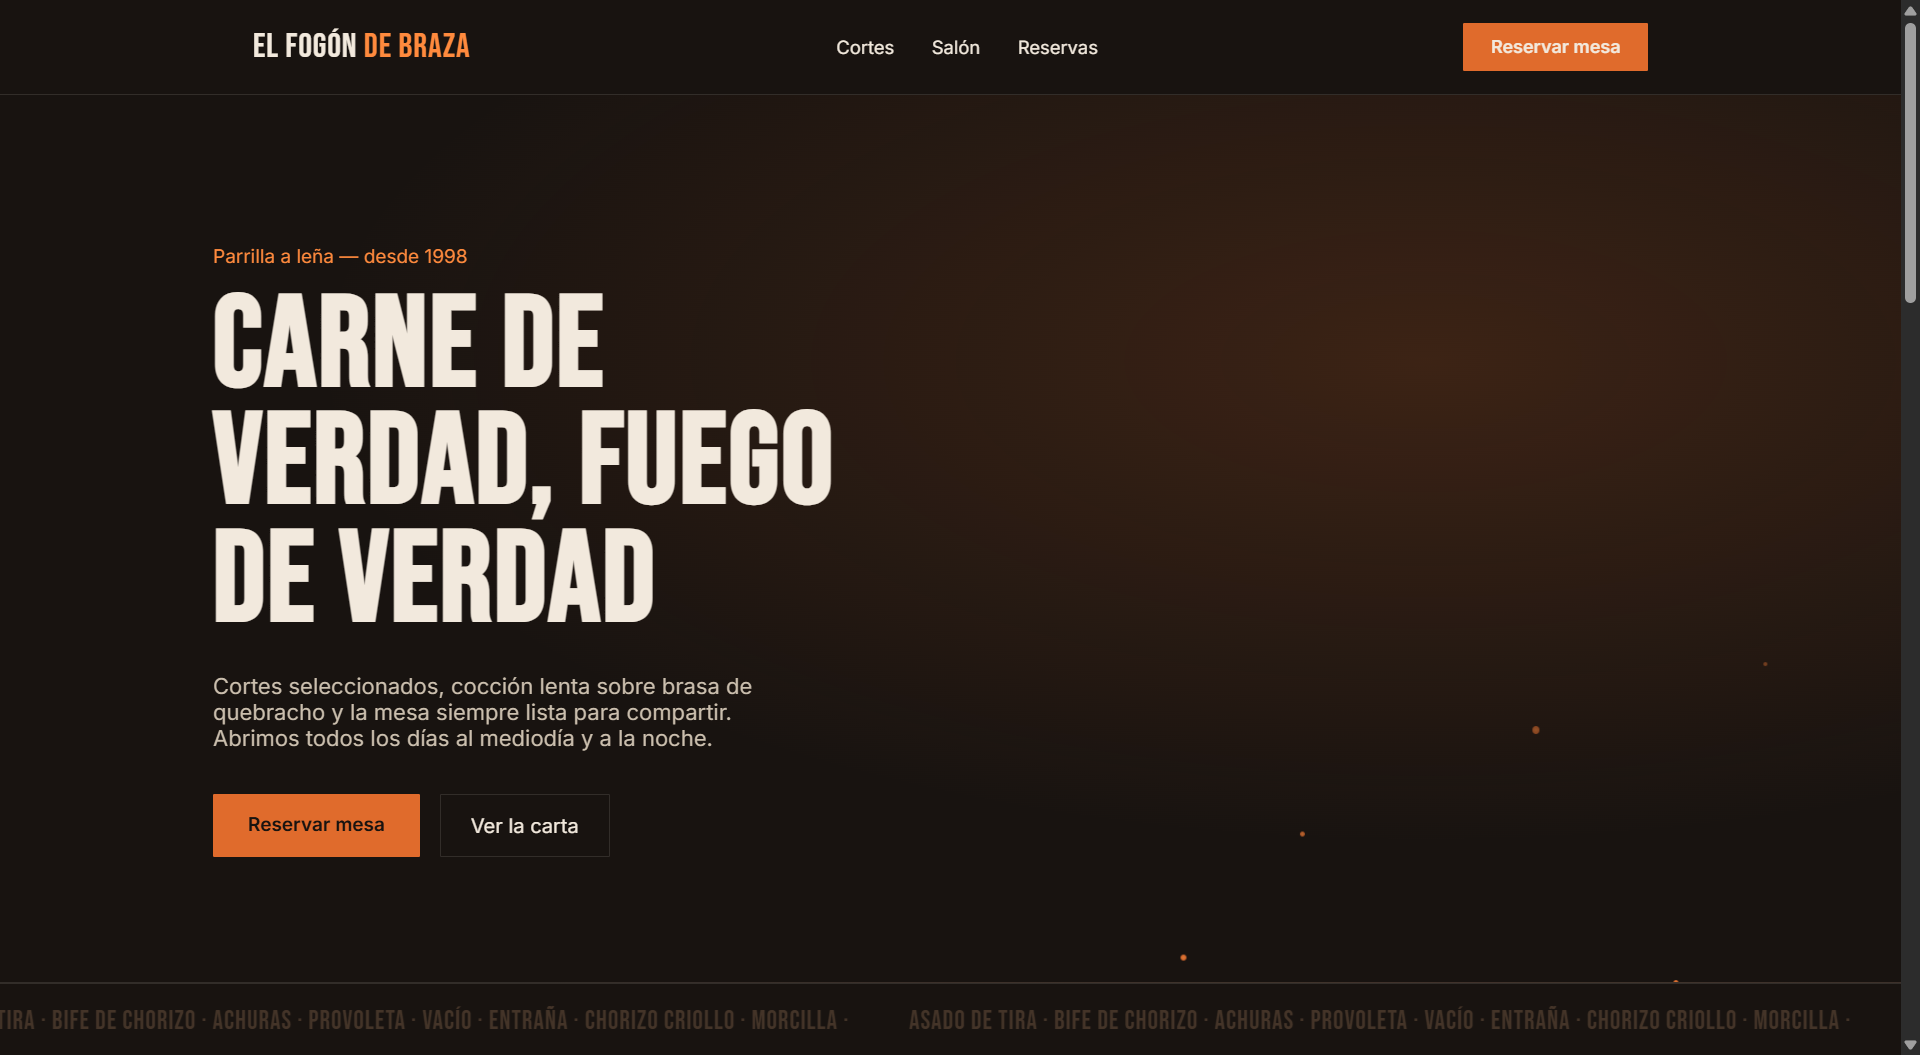
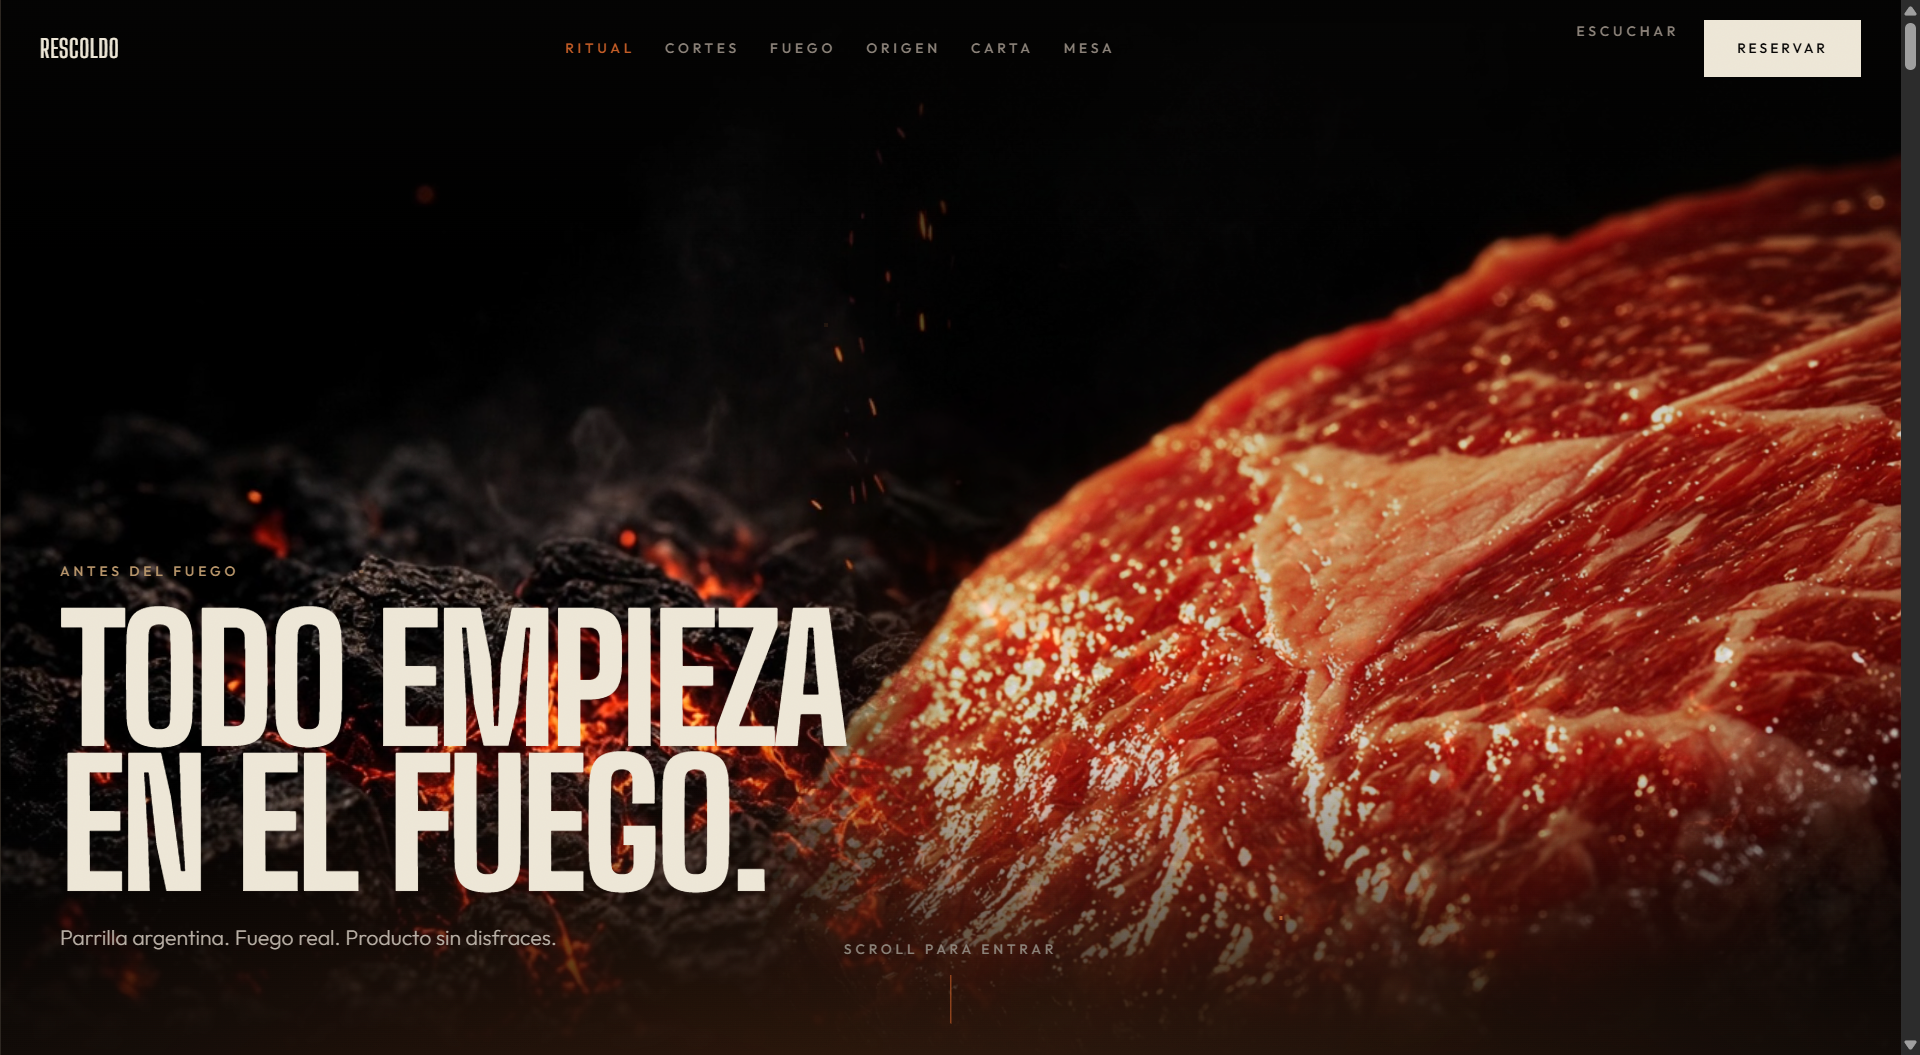
fix demo parrilla

diff --git a/src/data.js b/src/data.js
@@ -97,15 +97,9 @@ export const templates = [
         name: "Parrilla",
         category: "Gastronomía · Landing page",
         image: "/templates/parrilla/parrilla.png",
-        link: "/templates/parrilla/parrilla.html"
+        link: "https://demo-parrilla.vercel.app/"
     },
-  //  {
-        //index: "07",
-        //name: "Empanadas",
-        //category: "Gastronomía · Website",
-        //image: "/templates/empas/empas.png",
-        //link: "https://demo-empas.vercel.app/"
-    //},
+
 ];
 
 
